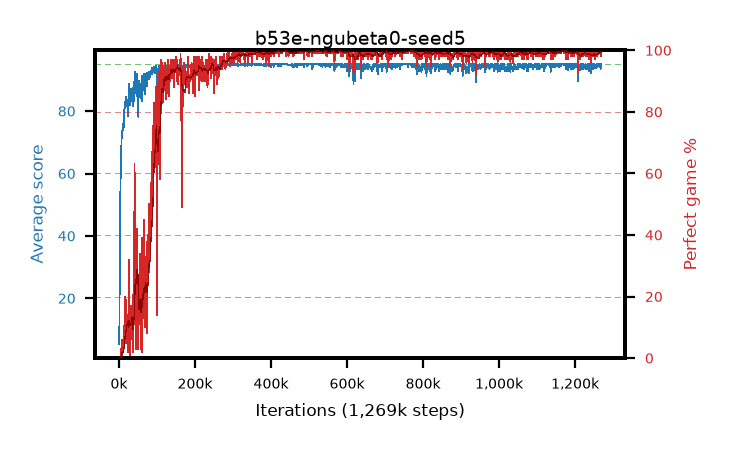
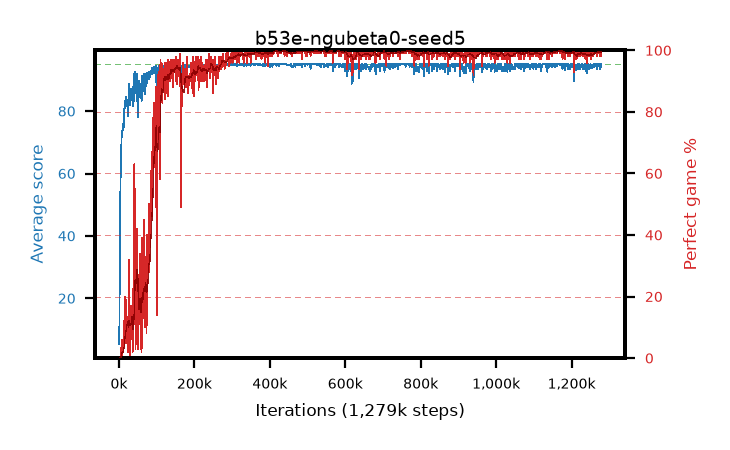
live pictures of 4 arm(s)

diff --git a/results/b53g-ngubeta0-seed7/b53g-ngubeta0-seed7.md b/results/b53g-ngubeta0-seed7/b53g-ngubeta0-seed7.md
@@ -1,6 +1,6 @@
 # b53g-ngubeta0-seed7
 
-step **1,279,000** · 1279 evals · trailing **93.88** · peak **94.97** @274,000 · sef **91.3** · best30 **99.8** @1,111,000
+step **1,289,000** · 1289 evals · trailing **93.96** · peak **94.97** @274,000 · sef **91.4** · best30 **99.8** @1,111,000
 
 ## Config
 
@@ -80,15 +80,15 @@ step **1,279,000** · 1279 evals · trailing **93.88** · peak **94.97** @274,00
 | 2000 | 37.8 | 20.34 | 6.0 | 63.0 | 32.628 | 0.0 | 0.4 |
 | 3000 | 67.99 | 36.22 | 23.0 | 95.0 | 74.006 | 11.0 | 0.4 |
 | ... | ... | ... | ... | ... | ... | ... | ... |
-| 1268000 | 94.25 | 94.13 | 20.0 | 95.0 | 191.988 | 99.0 | 0.4 |
-| 1269000 | 94.19 | 94.13 | 14.0 | 95.0 | 191.947 | 99.0 | 0.4 |
-| 1270000 | 92.74 | 94.05 | 16.0 | 95.0 | 188.423 | 97.0 | 0.4 |
-| 1271000 | 95.0 | 94.05 | 95.0 | 95.0 | 193.797 | 100.0 | 0.4 |
-| 1272000 | 93.45 | 94.03 | 19.0 | 95.0 | 189.12 | 97.0 | 0.4 |
-| 1273000 | 91.88 | 93.95 | 10.0 | 95.0 | 186.517 | 96.0 | 0.4 |
-| 1274000 | 95.0 | 93.98 | 95.0 | 95.0 | 193.79 | 100.0 | 0.4 |
-| 1275000 | 93.43 | 93.93 | 11.0 | 95.0 | 190.141 | 98.0 | 0.4 |
-| 1276000 | 94.28 | 93.93 | 23.0 | 95.0 | 192.04 | 99.0 | 0.4 |
-| 1277000 | 92.63 | 93.85 | 12.0 | 95.0 | 188.301 | 97.0 | 0.4 |
 | 1278000 | 94.29 | 93.82 | 24.0 | 95.0 | 192.045 | 99.0 | 0.4 |
 | 1279000 | 94.26 | 93.88 | 21.0 | 95.0 | 192.007 | 99.0 | 0.4 |
+| 1280000 | 92.62 | 93.88 | 12.0 | 95.0 | 188.29 | 97.0 | 0.4 |
+| 1281000 | 94.71 | 93.9 | 66.0 | 95.0 | 192.457 | 99.0 | 0.4 |
+| 1282000 | 94.31 | 93.89 | 26.0 | 95.0 | 192.053 | 99.0 | 0.4 |
+| 1283000 | 93.41 | 93.84 | 14.0 | 95.0 | 190.122 | 98.0 | 0.4 |
+| 1284000 | 95.0 | 93.87 | 95.0 | 95.0 | 193.786 | 100.0 | 0.4 |
+| 1285000 | 95.0 | 93.92 | 95.0 | 95.0 | 193.787 | 100.0 | 0.4 |
+| 1286000 | 94.2 | 93.91 | 15.0 | 95.0 | 191.945 | 99.0 | 0.4 |
+| 1287000 | 94.22 | 93.94 | 20.0 | 95.0 | 190.969 | 98.0 | 0.4 |
+| 1288000 | 95.0 | 93.98 | 95.0 | 95.0 | 193.783 | 100.0 | 0.4 |
+| 1289000 | 94.2 | 93.96 | 15.0 | 95.0 | 191.948 | 99.0 | 0.4 |

diff --git a/results/b53e-ngubeta0-seed5/b53e-ngubeta0-seed5.md b/results/b53e-ngubeta0-seed5/b53e-ngubeta0-seed5.md
@@ -1,6 +1,6 @@
 # b53e-ngubeta0-seed5
 
-step **1,269,000** · 1269 evals · trailing **94.4** · peak **94.95** @437,000 · sef **92.0** · best30 **99.8** @530,000
+step **1,279,000** · 1279 evals · trailing **94.58** · peak **94.95** @437,000 · sef **92.1** · best30 **99.8** @530,000
 
 ## Config
 
@@ -80,15 +80,15 @@ step **1,269,000** · 1269 evals · trailing **94.4** · peak **94.95** @437,000
 | 2000 | 29.39 | 17.35 | 3.0 | 54.0 | 24.459 | 0.0 | 0.4 |
 | 3000 | 50.81 | 28.5 | 16.0 | 85.0 | 45.457 | 0.0 | 0.4 |
 | ... | ... | ... | ... | ... | ... | ... | ... |
-| 1258000 | 95.0 | 94.23 | 95.0 | 95.0 | 193.785 | 100.0 | 0.4 |
-| 1259000 | 94.22 | 94.25 | 17.0 | 95.0 | 191.97 | 99.0 | 0.4 |
-| 1260000 | 95.0 | 94.28 | 95.0 | 95.0 | 193.787 | 100.0 | 0.4 |
-| 1261000 | 94.49 | 94.29 | 44.0 | 95.0 | 192.236 | 99.0 | 0.4 |
-| 1262000 | 95.0 | 94.33 | 95.0 | 95.0 | 193.783 | 100.0 | 0.4 |
-| 1263000 | 95.0 | 94.36 | 95.0 | 95.0 | 193.782 | 100.0 | 0.4 |
-| 1264000 | 94.26 | 94.34 | 21.0 | 95.0 | 192.005 | 99.0 | 0.4 |
-| 1265000 | 94.97 | 94.33 | 92.0 | 95.0 | 192.757 | 99.0 | 0.4 |
-| 1266000 | 95.0 | 94.34 | 95.0 | 95.0 | 193.789 | 100.0 | 0.4 |
-| 1267000 | 93.5 | 94.35 | 17.0 | 95.0 | 190.205 | 98.0 | 0.4 |
 | 1268000 | 95.0 | 94.35 | 95.0 | 95.0 | 193.788 | 100.0 | 0.4 |
 | 1269000 | 95.0 | 94.4 | 95.0 | 95.0 | 193.788 | 100.0 | 0.4 |
+| 1270000 | 94.26 | 94.38 | 21.0 | 95.0 | 192.012 | 99.0 | 0.4 |
+| 1271000 | 95.0 | 94.47 | 95.0 | 95.0 | 193.777 | 100.0 | 0.4 |
+| 1272000 | 95.0 | 94.49 | 95.0 | 95.0 | 193.788 | 100.0 | 0.4 |
+| 1273000 | 95.0 | 94.51 | 95.0 | 95.0 | 193.79 | 100.0 | 0.4 |
+| 1274000 | 95.0 | 94.51 | 95.0 | 95.0 | 193.789 | 100.0 | 0.4 |
+| 1275000 | 94.59 | 94.55 | 54.0 | 95.0 | 192.337 | 99.0 | 0.4 |
+| 1276000 | 93.49 | 94.53 | 13.0 | 95.0 | 190.207 | 98.0 | 0.4 |
+| 1277000 | 95.0 | 94.53 | 95.0 | 95.0 | 193.788 | 100.0 | 0.4 |
+| 1278000 | 94.19 | 94.56 | 19.0 | 95.0 | 190.894 | 98.0 | 0.4 |
+| 1279000 | 95.0 | 94.58 | 95.0 | 95.0 | 193.783 | 100.0 | 0.4 |
